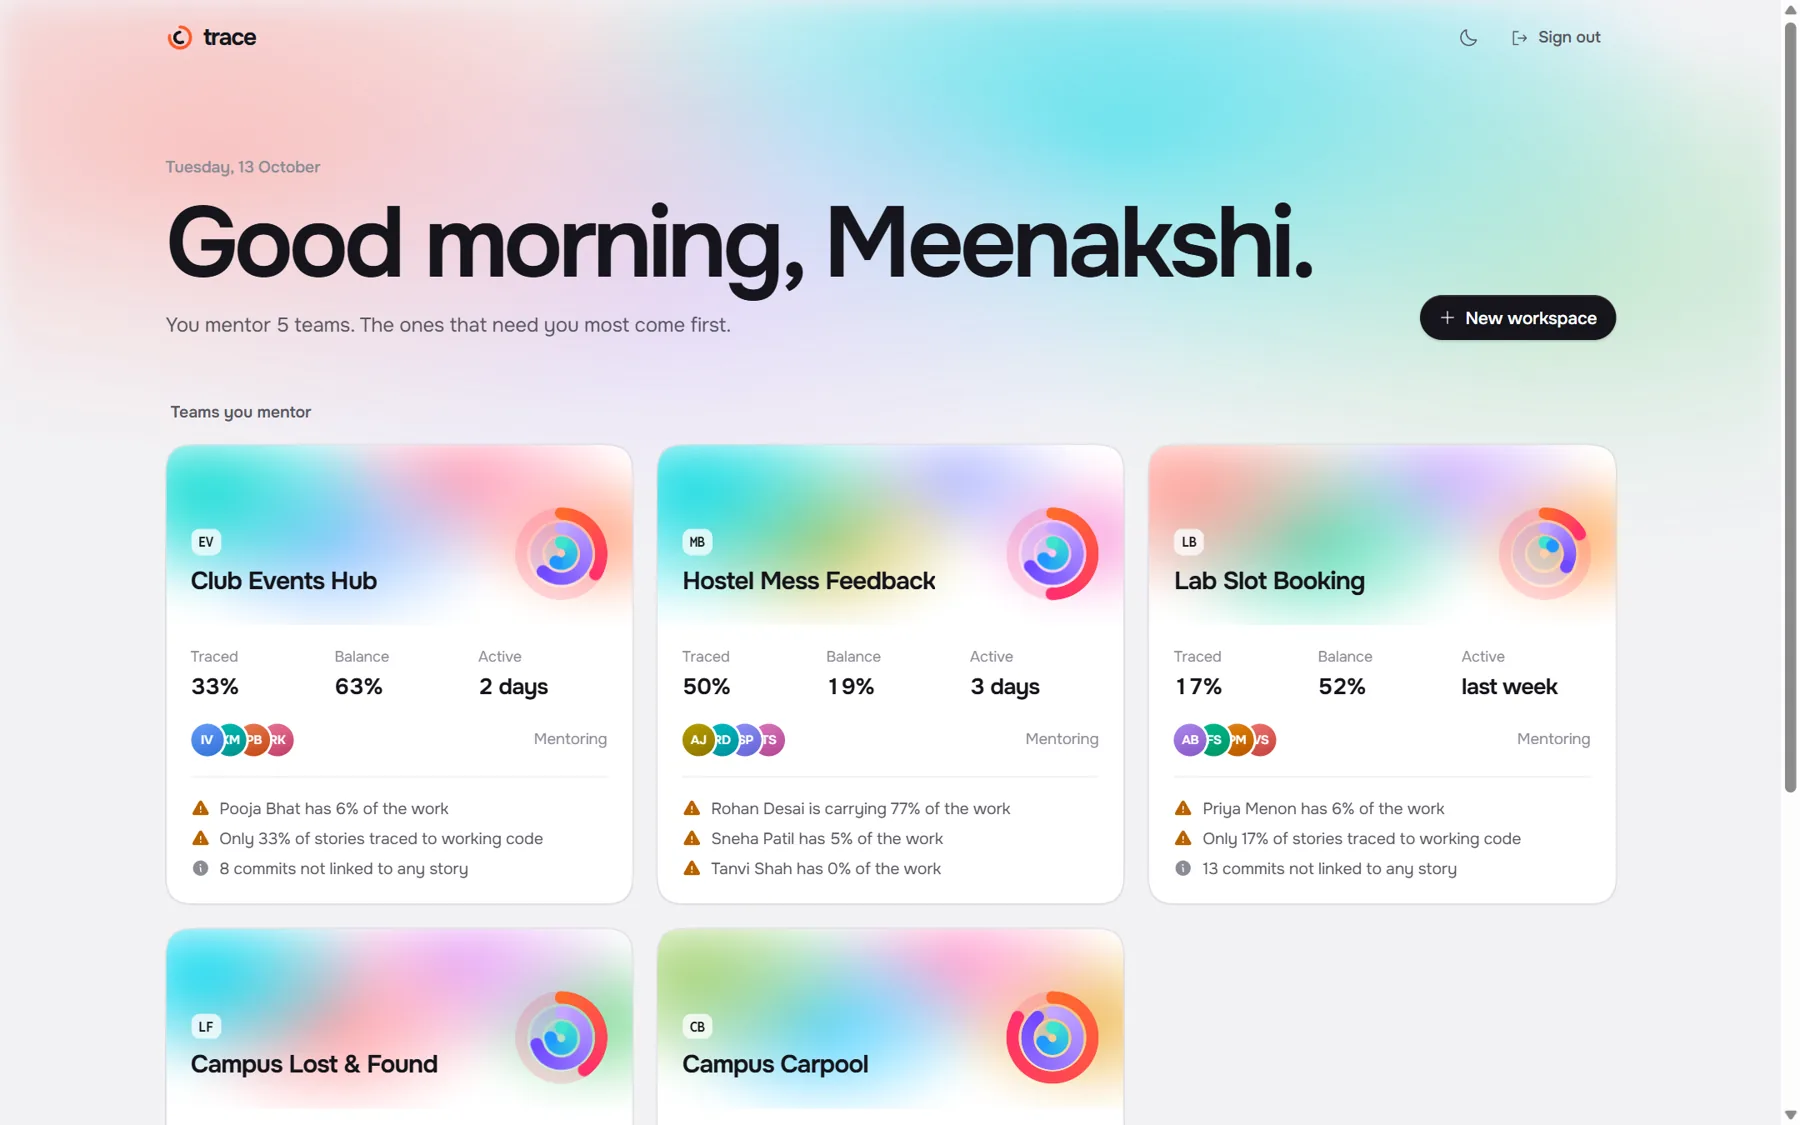
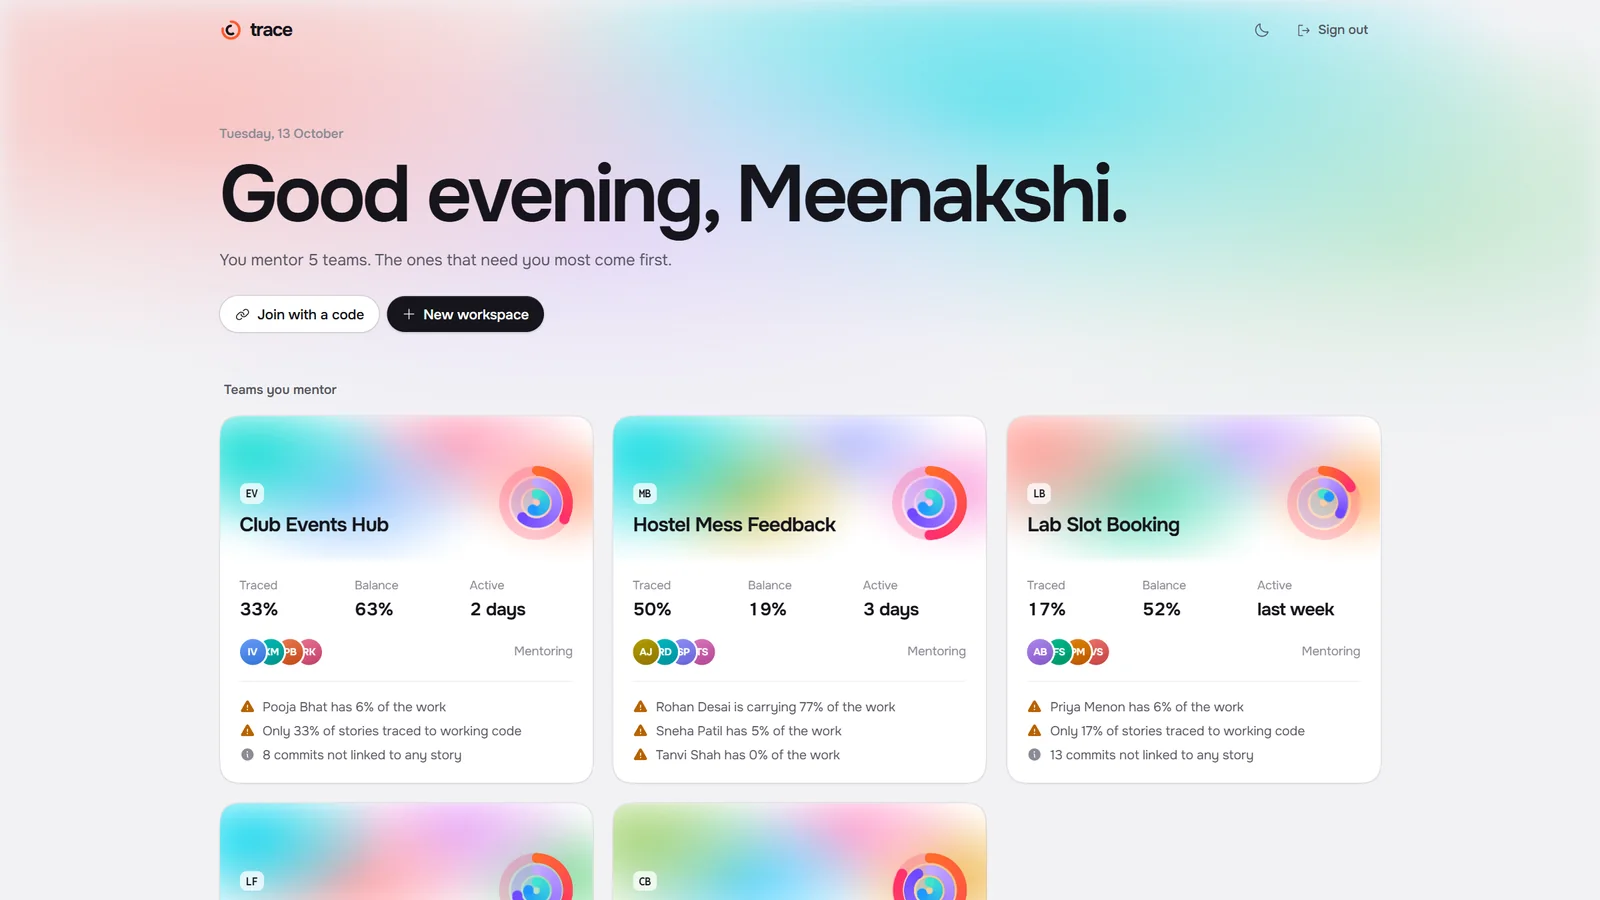
New README: the product, told for the people who use it
- Light and dark hero banners, a looping replay of a project rebuilding
  itself, and fresh screenshots of every part of the app
- Written about the product and its users; setup notes and internals left out
- Social preview image for the repository

diff --git a/README.md b/README.md
@@ -1,93 +1,101 @@
-<p align="center">
-  <img src=".github/media/hero.webp" alt="Trace: every requirement, traced" width="100%" />
-</p>
-
-# Trace
-
-**Every requirement, traced.** Trace is a workspace for student software teams. It links each story to the tasks, commits and decisions behind it, and to the people who did the work, so a team (and its mentor) can always answer three questions: *who built this, why was it done this way, and what is left?*
-
-**Live:** [tracethis.vercel.app](https://tracethis.vercel.app). Press **Try the demo** to look around a fictional team, or **See the mentor demo** for the view across five teams.
-
-## What it does
-
-| | |
-| --- | --- |
-| **Today** | Three rings: stories traced end to end, tasks done and commits linked. Drag **Rewind** back through the timeline and every number, ring and share is recomputed for that day, or press play to watch the project rebuild itself. |
-| **Trace** | A live requirements traceability matrix. Every story shows its chain of tasks, commits (in the colour of whoever made them), decisions and people, and whether it is untraced, planned, building or traced. A people view shows who worked on what. Export it as CSV. |
-| **Commit linking** | A commit that names an item (`LF-12: add photo upload`) links itself. For the rest, Trace suggests a match from the words in the message and the files it touched; a teammate confirms or rejects it. |
-| **Receipts** | One pass per person, stacked like a wallet; open one and its receipt prints out. Every line is evidence you can open: a commit, a finished task, a decision. Anyone can dispute a line; the team lead resolves it and the receipt keeps both sides. No line is written by AI. |
-| **Decisions** | A log of the team's choices with the reasons and the alternatives. Type `/decide` in chat to log one. Trace flags pairs of decisions that may contradict each other. |
-| **Viva practice** | Flashcards on the code, decisions and requirements you did *not* work on, answered from the team's own record. Practice only: nothing is graded or shared. |
-| **Ask** | Press Ctrl K (⌘K on a Mac) anywhere to jump to any story, task or decision, or ask "why did we switch to email alerts?" and get the matching decisions, chat messages, stories and commits, best match first. With an AI key set, a short answer that cites them. |
-| **Mentor view** | Every team you mentor on one page, each card lit in its team's colours: how much is traced, how evenly the work is spread, who went quiet, open disputes and conflicting decisions. |
-
-Each workspace is lit by its own team: every member is a pool of colour, sized by their share of the work, so a balanced team glows evenly and a team carried by one person is mostly one colour.
+<picture>
+  <source media="(prefers-color-scheme: dark)" srcset=".github/media/banner-dark.webp">
+  <img src=".github/media/banner-light.webp" alt="Trace: every requirement, traced" width="100%">
+</picture>
 
 <p align="center">
-  <img src=".github/media/overview.webp" alt="Today: the three rings, the Rewind timeline and the team's share of the work" width="100%" />
+  <b>Trace</b> is the workspace student software teams use to show who built what, why it was decided, and what is left.
+  <br><br>
+  <a href="https://tracethis.vercel.app"><b>Open Trace</b></a>
+  &nbsp;·&nbsp;
+  <a href="https://tracethis.vercel.app/enter">Look around a demo team</a>
+  &nbsp;·&nbsp;
+  <a href="#for-mentors">For mentors</a>
 </p>
+
+<br>
+
+Group projects tend to end the same way. Someone asks who wrote the search, why the team switched to email alerts, or whether the login story is really finished, and nobody can quite say. The commits are in one place, the decisions are in a chat, the tasks are on a board, and the requirements are in a document that stopped being true weeks ago.
+
+We built Trace so that never happens. Every requirement is tied to the tasks behind it, the commits that delivered it, the decisions that shaped it and the people who did the work, and it stays that way as the project moves.
+
+<br>
+
+## A project you can see
+
+<img src=".github/media/rewind.webp" alt="Three rings filling as the project replays from its first day" width="100%">
+
+Three rings say how done a team really is: stories traced from requirement to working code, tasks finished, and commits tied to a story. Drag back along the timeline and every number, ring and share of the work is rebuilt for that day. Press play and the whole project rebuilds itself from the first commit.
+
+Each workspace is lit in its team's colours. Every member is a pool of light sized by their share of the work, so a balanced team glows evenly and a team carried by one person shows it at a glance.
+
+<br>
+
+## Every requirement, traced
+
+<img src=".github/media/trace.webp" alt="Stories with their chains of tasks, commits and decisions" width="100%">
+
+Each story carries its chain of evidence: the tasks behind it, every commit in the colour of whoever made it, the decisions that shaped it and the people who built it. A commit that mentions `LF-12` links itself. For everything else, Trace suggests the match and a teammate says yes or no, and a rejected suggestion never comes back.
+
+The whole traceability matrix exports in one click, ready for a report.
+
+<br>
+
+## Receipts, not opinions
+
+<img src=".github/media/wallet.webp" alt="One receipt pass per teammate, with their share of the work" width="100%">
+
+Every teammate gets a receipt, and every line on it is evidence: a commit, a finished task, a decision, a story they wrote. Shares come from the record, not from anyone's opinion, and no line is written by AI.
+
+Anyone can dispute a line and say what really happened. The team lead resolves it, and the receipt keeps both sides. It prints cleanly, for the day someone needs it on paper.
+
+<br>
+
+## Ready for the viva
+
+<img src=".github/media/viva.webp" alt="A flashcard asking about code a teammate wrote" width="100%">
+
+Flashcards on the code, decisions and requirements a student did *not* work on, answered from the team's own record. Say the answer out loud, flip the card, be honest about how it went. Practice only: nothing is graded or shown to anyone.
+
+<br>
+
+## Ask the record
+
+<img src=".github/media/spotlight.webp" alt="Searching for a story and asking the record a question" width="100%">
+
+One shortcut opens a search across every story, task, decision and person. Type a question instead, like *why did we email match alerts instead of push?*, and Trace answers from the team's own decisions, chat and commits, with every claim pointing at its source.
+
+<br>
+
+## For mentors
+
+<img src=".github/media/mentor.webp" alt="Five teams, each card lit in its team's colours" width="100%">
+
+A mentor sees every team they guide on one page, the teams that need attention first: how much is traced, who is carrying the work, who went quiet, open disputes and decisions that contradict each other.
+
+Getting there takes a few seconds. A team lead reads out the team's mentor code, or adds the mentor by email before they even have an account, and the team appears the moment they sign in. Mentors can read everything, comment and raise disputes, but the record stays the team's.
+
+<br>
+
+## In every pocket
+
+<img src=".github/media/phones.webp" alt="Today, receipts and chat on a phone" width="100%">
+
+Trace works the same on a phone, in light or dark, with the team's chat, its board and its receipts a thumb away.
+
+<br>
+
+## How it fits together
+
+1. **Write the stories.** Each one says who it is for, what they need and why, with acceptance criteria anyone can demo. Stories and tasks share one counter, so every item has a short ID like `LF-12`.
+2. **Do the work.** Tasks move across the board. Commits that name an item link themselves; Trace suggests the rest.
+3. **Decide out loud.** Start a chat message with `/decide` and it becomes a numbered decision, with its reasons, tied to the conversation it came from.
+4. **Close the rings.** A story is *traced* when every task is done and at least one commit stands behind it. When all three rings close, the project is done, and the team can prove it.
+
+<br>
 
 <p align="center">
-  <img src=".github/media/receipt.webp" alt="A receipt pass with its printed slip of evidence" width="49%" />
-  <img src=".github/media/mentor.webp" alt="Mentor view across five teams" width="49%" />
+  <a href="https://tracethis.vercel.app"><b>tracethis.vercel.app</b></a>
+  <br><br>
+  <sub>Designed and built by <a href="https://github.com/sirgreaseball">Dhruv Sonar</a>. © 2026. All rights reserved.</sub>
 </p>
-
-## How tracing works
-
-Each workspace has a short key, like `LF`. Stories and tasks share one counter, so every item has an ID such as `LF-12`, and decisions are numbered `D-1`, `D-2` and so on.
-
-1. **Sync** pulls the newest commits from a public GitHub repository, with the files and line counts for each.
-2. **Link.** Item IDs in commit messages create confirmed links. Commits without an ID get at most one suggested link, scored by the words they share with a task or story. Rejected suggestions are never suggested again.
-3. **Trace.** A story is *traced* when all its tasks are done and at least one commit is confirmed against it.
-4. **Receipts and balance.** A member's share weighs commits (40%), changed lines (30%, capped per commit so a lockfile can't dominate) and finished tasks (30%). Balance is one minus the Gini coefficient of those shares.
-
-All of this lives in one pure module, [`src/lib/trace.ts`](src/lib/trace.ts), shared by the server, the browser and the demo seeder, so every number on screen has exactly one definition. It has its own tests (`npm test`).
-
-## Stack
-
-- **Next.js 16** (App Router, React 19, TypeScript) and **Tailwind CSS 4**.
-- **Supabase**: Postgres with row-level security on every table, auth, realtime chat and full-text search (`search_evidence`).
-- **three.js** for the landing page: the three rings as glossy objects lit by a studio environment, closing as you scroll, leaning toward the pointer and spinning when dragged. **Lenis** smooths the scroll that drives every scene.
-- **Motion** for spring physics (the dock, sheets, the board, the island), React view transitions between pages, and a small WebGL shader for each team's light.
-- Optional AI through free tiers (Groq, then Gemini, then OpenRouter) behind one OpenAI-compatible call. Every AI feature has a plain fallback, so the app works with no keys at all.
-
-### Security model
-
-The browser talks to Postgres directly, so access is enforced in the database, not the UI:
-
-- Members read their workspace; owners and members write; mentors read and can raise disputes but cannot change the record.
-- Cross-table references are checked to stay inside one workspace, workspace IDs are immutable, and a workspace always keeps at least one team lead.
-- Workspace creation, invites and search run through narrowly scoped database functions.
-
-## Run it locally
-
-```bash
-npm install
-cp .env.example .env.local   # then fill in your Supabase URL and publishable key
-npm run dev
-```
-
-Set up the database by running the files in [`supabase/migrations`](supabase/migrations) in order in the Supabase SQL editor. `0002_demo.sql` creates the demo teams; regenerate it with `npm run seed`.
-
-| Variable | Needed for |
-| --- | --- |
-| `NEXT_PUBLIC_SUPABASE_URL`, `NEXT_PUBLIC_SUPABASE_PUBLISHABLE_KEY` | Everything |
-| `DEMO_PASSWORD` | The demo buttons (set the same password on the two demo accounts) |
-| `GROQ_API_KEY`, `GEMINI_API_KEY`, `OPENROUTER_API_KEY` | Optional AI answers, linking and viva follow-ups |
-| `GITHUB_TOKEN` | Optional; raises GitHub sync limits from 60 to 5,000 requests an hour |
-
-In Supabase, turn off **Authentication > Sign In / Providers > Email > Confirm email** (or connect your own SMTP server) so new accounts can sign in straight away.
-
-## Project layout
-
-```
-src/app            routes: landing, sign-in, workspace pages, API routes
-src/components     UI, the 3D rings (splash/rings3d.ts) and the landing page
-src/lib            the trace engine, data loading, AI and GitHub helpers
-supabase           schema, policies and demo data
-scripts            demo data generator
-```
-
----
-
-Made by [Dhruv Sonar](https://github.com/sirgreaseball). All rights reserved.
